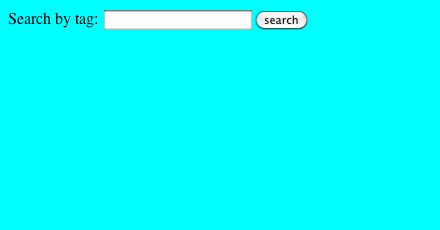
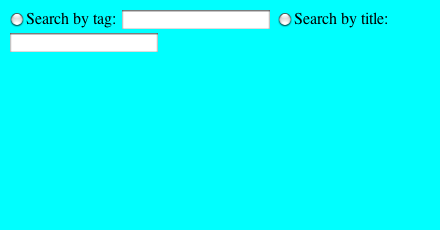
layout changes

Changed region(s): [[0.0, 0.0304, 0.3841, 0.2435], [0.5614, 0.0304, 0.8864, 0.1522]]

diff --git a/SO-OS-X-Widget.dcproj/project/widget.wdgt/main.html b/SO-OS-X-Widget.dcproj/project/widget.wdgt/main.html
@@ -47,6 +47,16 @@
         </script>
     </head>
     <body style="background-color:aqua">
-        Search by tag: <input type="text" id="query"/><input type="button" value="search" id="search"/>
+    <br/>
+           <input type="checkbox" value="intitle" name="searchby"/>Search by title: <input type="text" id="title"/>
+           <hr/>
+ <input type="radio" value="tagged" name="searchby"/>Search by tag: <input type="text" id="tag"/>
+
+    <br/><input type="radio" value="nottagged" name="searchby"/>untagged
+<hr/>
+    <input type="radio" name="sortby" value="activity" checked="true"/>Activity<br/>
+        <input type="radio" name="sortby" value="views"/>Views<br/>
+            <input type="radio" name="sortby" value="creation"/>Createion<br/>
+                <input type="radio" name="sortby" value="votes"/>Votes<br/>
     </body>
 </html>
